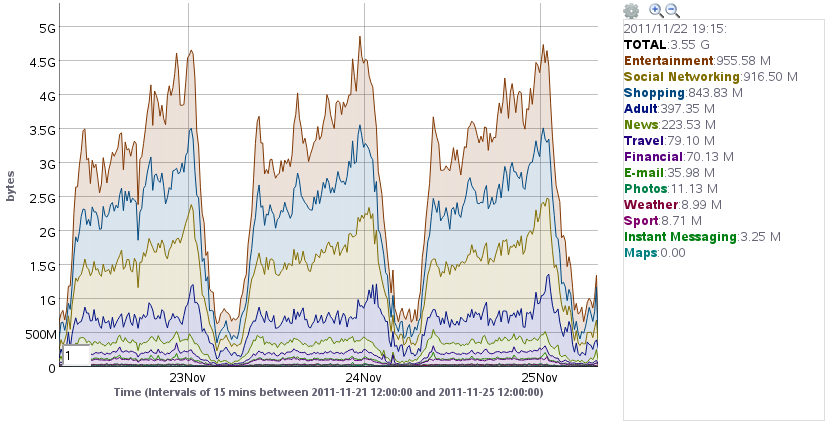
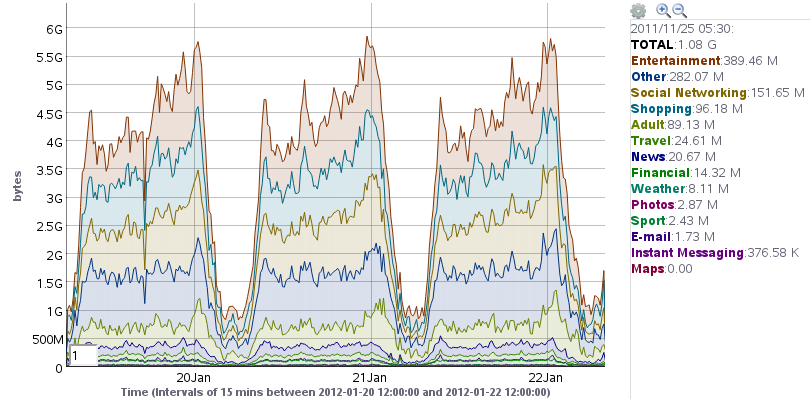
Added some graphs and explanations

diff --git a/flowsight.tex b/flowsight.tex
@@ -10,11 +10,11 @@ huge amounts of data from the mobile internet networks in real time, correlating
 \end{itemize}
 In order to get a graphical glimpse of the network, FlowSight allows the configuration of reports. A report consists of a series of options concerning a chart, which is the graphical representation
 of the previously captured and correlated data. As many reports as needed might be configured, representing variables like latency, volume, throughput, etc.   
-Figure\ref{fig:{img/total_traffic_type.png}} represents the total traffic volume during three days of data capturing. This particular report is set to represent the total volume in the network, 
+Figure \ref{fig:{img/total_traffic_type.png}} represents the total traffic volume during three days of data capturing. This particular report is set to represent the total volume in the network, 
 distinguishing between the different types of traffic detected (OTT, streaming, browsing, etc.)
 \imatge{img/total_traffic_type.png}{Total volume per traffic type}
 
-If we set the report to only draw the browsing traffic type\ref{fig:{img/total_traffic_browsing.png}}, we are able to see when and how much data is being consumed via web browsing, but wouldn't it be 
+If we set the report to only draw the browsing traffic type \ref{fig:{img/total_traffic_browsing.png}}, we are able to see when and how much data is being consumed via web browsing, but wouldn't it be 
 great to be able to know which kind of websites are the most visited? Maybe with this information more about the users' behaviour could be learned and a better quality of service could be offered.
 
 \imatge{img/total_traffic_browsing.png}{Total browsing volume}
@@ -22,14 +22,4 @@ great to be able to know which kind of websites are the most visited? Maybe with
 The main goal of this thesis is to be able to split the browsing category into subcategories by automatically categorizing the content of each web page that is browsed, using the power of machine learning
 algorithms.
 
-The result of this Masther thesis is not a standalone application, but an enchancement of an already existing high performance and highly scalable application called FlowSight and developed by Zhilabs.
-FlowSight captures and analyzes the traffic in a network and gives the final user the ability to see the data in many different ways. The higher level of interaction with FlowSight is performed through
-a graphical user interface in a web browser. At a lower level, FlowSight is based on workflows, which are a series of configuration files that using the implemented modules are able to perform a task.
-
-
-One way of solving this task would be doing it manually by someone in the company by reading those top sites and applying categories to them.
-The problem of such a manual approach is that maybe today the client asked for the top 10 sites, but you never know when will they ask for the top 100000. 
-Another way could be using the metadata information provided by the website itself, but not every site provides its category in the metadata.
-The best approach to solve this task in a real scenario ended up being the artificial intelligence.
-This project is the result of applying the power of machine learning algorithms to a real case scenario.
 

diff --git a/research.tex b/research.tex
@@ -33,8 +33,8 @@ a seed file that was later automatically parsed.
 \inputcfg{config/seed_yahoodir.txt}{Yahoo Directory! parsing seed file (excerpt)}
 
 The process of parsing the seed file and crawling those URL was performed by two separate  workflows in the application specifically designed for the task. \\
-The first workflow\ref{fig:{config/yahoo_parser.cfg}} simply parsed each of the lines inside the seed file looking for the URL contained in each of the categories and inserting them into a database. \\
-A second and highly scalable workflow\ref{fig:{config/yahoo_crawler.cfg}} parsed the database crawling the content of each of the previously inserted URL and put it into a folder depending on its category.\ref{fig:{config/resultdir.txt}} \\
+The first workflow \ref{fig:{config/yahoo_parser.cfg}} simply parsed each of the lines inside the seed file looking for the URL contained in each of the categories and inserting them into a database. \\
+A second and highly scalable workflow \ref{fig:{config/yahoo_crawler.cfg}} parsed the database crawling the content of each of the previously inserted URL and put it into a folder depending on its category \ref{fig:{config/resultdir.txt}}. \\
 
 \inputcfg{config/yahoo_parser.cfg}{Yahoo Directory! URL parser}
 
@@ -50,7 +50,7 @@ among other things, allowed me to test different machine learning algorithms wit
   
 
 \section{Rapidminer tests}
-Rapidminer\cite{rapidminer}\ref{fig:{img/rapid1.png}} is a widely used, easy to use and powerful machine learning environment.  
+Rapidminer\cite{rapidminer} \ref{fig:{img/rapid1.png}} is a widely used, easy to use and powerful machine learning environment.  
 It was the perfect tool to do some initial tests in order to diagnose how might some categories be overlapping, detecting which algorithms performed better, etc. Almost all training processes were 
 performed with a 10 fold cross validation in order to prevent overfitting and obtaining realistic accuracy values.
 \imatgePetita{img/rapid1.png}{Rapidminer process}
@@ -81,9 +81,6 @@ using two different feature selection methods: \codi{TD-IDF} and \codi{Term Freq
  
 The conclusion of this initial test was, not surprisingly, that the more data the better. But we can also observe that when the training set size is small it is not clear which feature selection 
 method is better, whereas as the dataset grows it is clear that word frequency performs better, and also faster. (see image \ref{fig:{graphs/features.tex}})
-
-\subsection{K nearest neighbours}
-%!Do some tests changing the N and see the performance.
 
 \subsection{Face to face accuracy}
 %!Learn to distinguish between all pairs of classes and see which are more difficult

diff --git a/introduction.tex b/introduction.tex
@@ -2,13 +2,13 @@
 
 The quick growth in the telecommunication industry is letting millions of people use their mobile devices to connect to the internet and communicate in a different way. The post-PC era is here and
 the amount of consumed data per second is increasing together with the information that users themselves generate simply by interacting with the network.
-Although the classical mobile device usage (phone calls) is still growing linearly the modern way of using them has been growing exponentially since the year 2007\ref{fig:{img/ericsson_global.png}}.
-\imatge{img/ericsson_global.png}{Total monthly traffic} 
+Although the classical mobile device usage (phone calls) is still growing linearly the modern way of using them has been growing exponentially since the year 2007 \ref{fig:{img/ericsson_global.png}}.
+\imatge{img/ericsson_global.png}{Total monthly traffic} \\
 In order to squeeze all the information users are generating, and to be able to provide a better quality of service, mobile internet service providers need new powerful tools that are able to precisely
 measure important variables in the key elements of their infrastructures. Using these tools, providers can focus on their tasks while measuring how they are performing at them.
 Zhilabs is one of the companies that is building these kind of tools for telecommunication operators with their star product called FlowSight\cite{flowsight}. 
 This thesis is the result of the extension of the FlowSight platform capabilities by one of their client's request.  \\ 
-The remainder of the document is organized as follows. In Chapter \ref{chap:flowsight}, I introduce the FlowSight platform describing its characteristics and functionalities, and explaining my
+The remainder of the document is organized as follows. In Chapter \ref{chap:flowsight} I introduce the FlowSight platform describing its characteristics and functionalities, and explaining my
 expected contribution to it. In Chapter \ref{chap:research} I analyze the client requirements and perform some initial tests with a subset of the data. In Chapter \ref{chap:implementation} I introduce
 the concept of Maximum Entropy and focus in the implementation and performance evaluation of the algorithm. In Chapter \ref{chap:enhancements} I discuss ways of improving the quality and accuracy
 in the categorization. The results comparing the previously described enhancements with the original data are discussed in Chapter \ref{chap:results}. Finally, I describe some conclusions and future 

diff --git a/implementation.tex b/implementation.tex
@@ -17,9 +17,6 @@ This is because the constraints work over expectations of the counts. \\
 One implication for this freedom from independence assumptions is that bigrams and phrases can be easily added as features by maximum entropy, without worry that the features are overlapping.
 
 
-\section{MaxEnt Algorithm}
-
-
 \begin{itemize}
 \item Compute $d_j, j=1,...,k+1$
 \item Initialize $\lambda_j^{(1)}$ to zero
@@ -38,6 +35,14 @@ One implication for this freedom from independence assumptions is that bigrams a
 After observing the feature selection performance in the previous chapter, maybe the best choice for a fast vector creation is counting the term frequency. It usually performed better, and it always
 was faster.
 
+\section{Configuration files}
+In order to run the categorization algorithm as a thread inside the FlowSight platform some configuration files are needed. The first one is used to generate a model with the already existing and labeled
+data crawled from the Yahooo! directory. The second one performs the categorization itself using the previously generated model.
+
+
+\inputcfg{config/maxent_builder.cfg}{MaxEnt model builder configuration file}
+
+\inputcfg{config/maxent_classifier.cfg}{MaxEnt classifier configuration file}
 
 \section{Performance evaluation}
 %!Run the tests with m1r1, m2r1, m3r1, m4r1, m5,r1, mr2r2, m3r3, m4r4, m5r5, or etc...
@@ -52,7 +57,7 @@ Figure \ref{fig:{graphs/sclass2dmr.tex}} represents the execution time of the sa
 is the machine where I'm writing most of this document, and \codi{rogue (Intel Core 2 Quad CPU Q9300 @ 2.5GHz 8GB RAM)} is a more powerful machine used for testing purposes. The \codi{x} axis represents the 
 different mapper and reducer combinations I tested while the \codi{y} axis represents the number of categorized pages per second.
 As we can see both machines perform similary when using one to two mappers, but the most powerful machine outperforms the other one when using more than two mappers. We can also observe how \codi{ultraman}'s performance
-quickly stalls for more than thre mappers, while \codi{rogue} is able to hold a rising performance until six mappers are used.
+quickly stalls for more than three mappers, while \codi{rogue} is able to hold a rising performance until six mappers are used.
 
 Figure \ref{fig:{graphs/sclass3dmr.tex}} is a three dimensional representation of \codi{ultraman}'s performance. We can quiclky observe a repeating pattern for each number of mappers.
 \grafic{graphs/sclass3dmr.tex}{3D Performance graph}

diff --git a/enhancements.tex b/enhancements.tex
@@ -17,15 +17,24 @@ A better approach would be identifying the language itself and discarding the in
 
 \subsection{Entertainment into subcategories}
 %!Splitting entertainment into subcategories and seeing performance
-As we saw in chapter 3.3, the category \codi{Entertainment} is one of the most difficult to distinguish. This could be due to the fact that it is a wide category containing a lot of different
+As we saw in Chapter \ref{chap:research}, the category \codi{Entertainment} is one of the most difficult to distinguish. This could be due to the fact that it is a wide category containing a lot of different
 subcategories. We could try to split \codi{Entertainment} into subcategories (such as \codi{Music}, \codi{Movies}, \codi{Literature}...) to get a more precise dataset. In order to meet the
 client requirements those subcategories should be remapped to the original \codi{Entertainment} category after the classification process. \\
+
+\grafic{graphs/confusion1.tex}{Categorization confusions before split}
+
 After splitting the \codi{Entertainment} category into subcategories, these were the new classes I found: \\
 \begin{lstlisting} 
 Music, Literature, Theme parks, Movies, Food & Drink, Games, Television
 \end{lstlisting} 
 As new classes are added, it is clear that the overall accuracy of the classification may be worse, but with this new structure the confusions are likely to be between categories belonging to the same
 supercategory, which is not a problem.
+After splitting the entertainment category into subcategories and adding some categories to represent the "Other" category, Figure \ref{fig:{graphs/confusion2.tex}} shows which is the most common second option 
+in every of the categories that are categorized and how far it is from being the first option.
+
+\grafic{graphs/confusion2.tex}{Categorization confusions after split}
+
+
  
 
 \subsection{The \codi{Other} category}

diff --git a/graphs/confusion1.tex b/graphs/confusion1.tex
@@ -1,0 +1,23 @@
+% This graph belongs to sclass.tex
+
+% 2D graph of the performance
+\begin{tikzpicture}[scale=1]
+    \begin{axis}[
+      height=8cm,
+      width=12cm,
+      ymin = 0.02, 
+      xmin = automotive-games, xmax = maps-automotive, 
+      xticklabel style={rotate=90},
+      xtick={automotive-games,health-reference,adult-entertainment,travel-entertainment,software-entertainment,entertainment-automotive,shopping-entertainment,socialnetworking-automotive,sport-entertainment,news-entertainment,photos-entertainment,reference-entertainment,financial-news,email-software,fooddrink-entertainment,weather-travel,socialscience-news,science-automotive,games-shopping,education-news,instantmessaging-entertainment,crime-automotive,literature-entertainment,history-entertainment,regional-news,maps-automotive},
+      legend style={at={(0.19,0.95)}, anchor=north}, 
+      symbolic x coords={automotive-games,health-reference,adult-entertainment,travel-entertainment,software-entertainment,entertainment-automotive,shopping-entertainment,socialnetworking-automotive,sport-entertainment,news-entertainment,photos-entertainment,reference-entertainment,financial-news,email-software,fooddrink-entertainment,weather-travel,socialscience-news,science-automotive,games-shopping,education-news,instantmessaging-entertainment,crime-automotive,literature-entertainment,history-entertainment,regional-news,maps-automotive},
+      xlabel style={yshift=-0.4cm},
+      ylabel=$ confidence $]
+    \addplot[line width=1pt,smooth,blue] 
+      table[x index=0, y index=1, col sep=comma]{graphs/data/confusion1.dat};
+    \addplot[line width=1pt,smooth,red] 
+      table[x index=0, y index=2, col sep=comma]{graphs/data/confusion1.dat};
+    \legend{first option, second option}
+    \end{axis}
+\end{tikzpicture}
+

diff --git a/graphs/confusion2.tex b/graphs/confusion2.tex
@@ -1,0 +1,23 @@
+% This graph belongs to sclass.tex
+
+% 2D graph of the performance
+\begin{tikzpicture}[scale=1]
+    \begin{axis}[
+      height=8cm,
+      width=12cm,
+      ymin = 0.02, 
+      xmin = automotive-games, xmax = regional-realestate, 
+      xticklabel style={rotate=90},
+      xtick={automotive-games,health-news,adult-news,travel-news,sport-news,shopping-sport,news-music,fooddrink-news,software-news,science-news,photos-news,financial-news,music-religion,themeparks-news,realestate-news,weather-news,movies-news,history-news,television-news,religion-automotive,socialnetworking-news,government-news,reference-news,socialscience-themeparks,email-travel,education-news,instantmessaging-news,games-shopping,crime-automotive,literature-automotive,maps-automotive,regional-realestate},
+      legend style={at={(0.19,0.95)}, anchor=north}, 
+      symbolic x coords={automotive-games,health-news,adult-news,travel-news,sport-news,shopping-sport,news-music,fooddrink-news,software-news,science-news,photos-news,financial-news,music-religion,themeparks-news,realestate-news,weather-news,movies-news,history-news,television-news,religion-automotive,socialnetworking-news,government-news,reference-news,socialscience-themeparks,email-travel,education-news,instantmessaging-news,games-shopping,crime-automotive,literature-automotive,maps-automotive,regional-realestate},
+      xlabel style={yshift=-0.4cm},
+      ylabel=$ confidence $]
+    \addplot[line width=1pt,smooth,blue] 
+      table[x index=0, y index=1, col sep=comma]{graphs/data/confusion2.dat};
+    \addplot[line width=1pt,smooth,red] 
+      table[x index=0, y index=2, col sep=comma]{graphs/data/confusion2.dat};
+    \legend{first option, second option}
+    \end{axis}
+\end{tikzpicture}
+

diff --git a/results.tex b/results.tex
@@ -1,6 +1,14 @@
 %!TEX root = main.tex
 
-For each of the websites the module had to classify, information about the volume of consumed data on each of the connections was also available. 
-Figure \ref{fig:{img/volume_stacked.png}} is the result of combining the classification results with that information, before applying the language classification.
-the other data, 
+%For each of the websites the module had to classify, information about the volume of consumed data on each of the connections was also available. 
+%Figure \ref{fig:{img/volume_stacked.png}} is the result of combining the classification results with that information, before applying the language classification.
+%the other data,
+
+As we saw in previous chapters, FlowSight was already able to graphically represent the amount of consumed data in time \ref{fig:{img/total_traffic_browsing.png}}. The objective of this thesis was to
+give FlowSight the power to accurately and efficiently categorize the traffic depending on the content of the visited URL. As we can see in figures \ref{fig:{img/volume_stacked.png}} and 
+\ref{fig:{img/volume_plain.png}} the objective was achieved.
+ 
+
+\imatge{img/total_traffic_browsing.png}{Total browsing traffic}
 \imatge{img/volume_stacked.png}{Stacked representation of the volume of different categories}
+\imatge{img/volume_plain.png}{Plain representation of the volume of different categories}

diff --git a/conclusions.tex b/conclusions.tex
@@ -1,3 +1,7 @@
+- Now FlowSight is able to distinguish not only between browsing traffic and other types of traffic, but it is also able to categorize the browsing traffic itself depending on the content of the URL.
+- 
+
+
 After applying all sorts of refining to the classificaction there are still some sites that are not being classified correctly. A clear example is the url "youtube.com". Whereas it is supposed to be
 a social network or entertainment website, the content and text in it is generated by the users themselves and just a small percentage of the content in the website talks about what it really is.
 This causes the website to be classified differently depending on the "social trends" of whenever the content was crawled.
